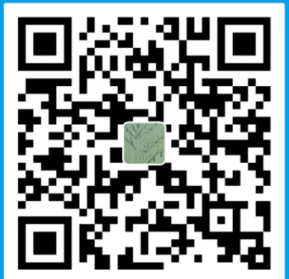
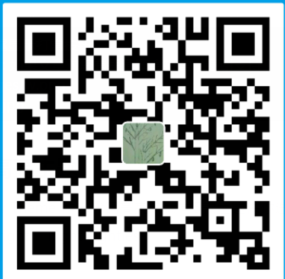
Site updated: 2017-05-14 15:15:08

diff --git a/2017/05/01/hello-world/index.html b/2017/05/01/hello-world/index.html
@@ -393,7 +393,7 @@
       
       
         <div id="alipay" style="display: inline-block">
-          <img id="alipay_qr" src="/images/zfb.jpg" alt="wenxi Alipay"/>
+          <img id="alipay_qr" src="/images/zfb.png" alt="wenxi Alipay"/>
           <p>支付宝打赏</p>
         </div>
       

diff --git a/css/main.css b/css/main.css
@@ -1810,7 +1810,7 @@ pre .javascript .function {
   width: 4px;
   height: 4px;
   border-radius: 50%;
-  background: #595dff;
+  background: #59d1e2;
 }
 .links-of-blogroll {
   font-size: 13px;
